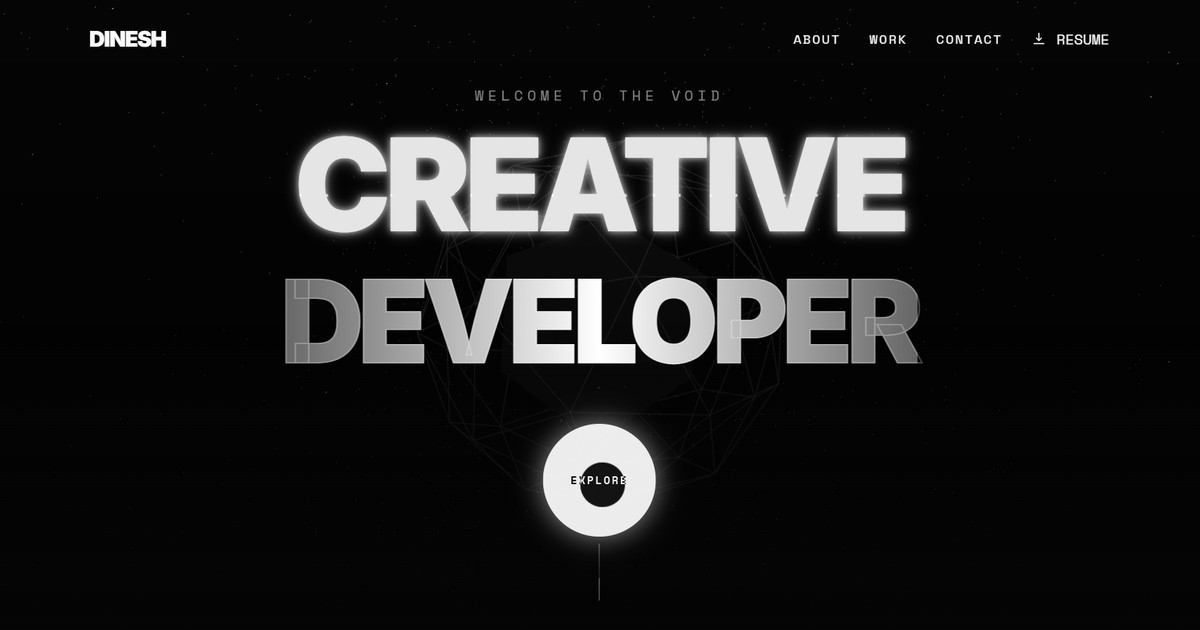
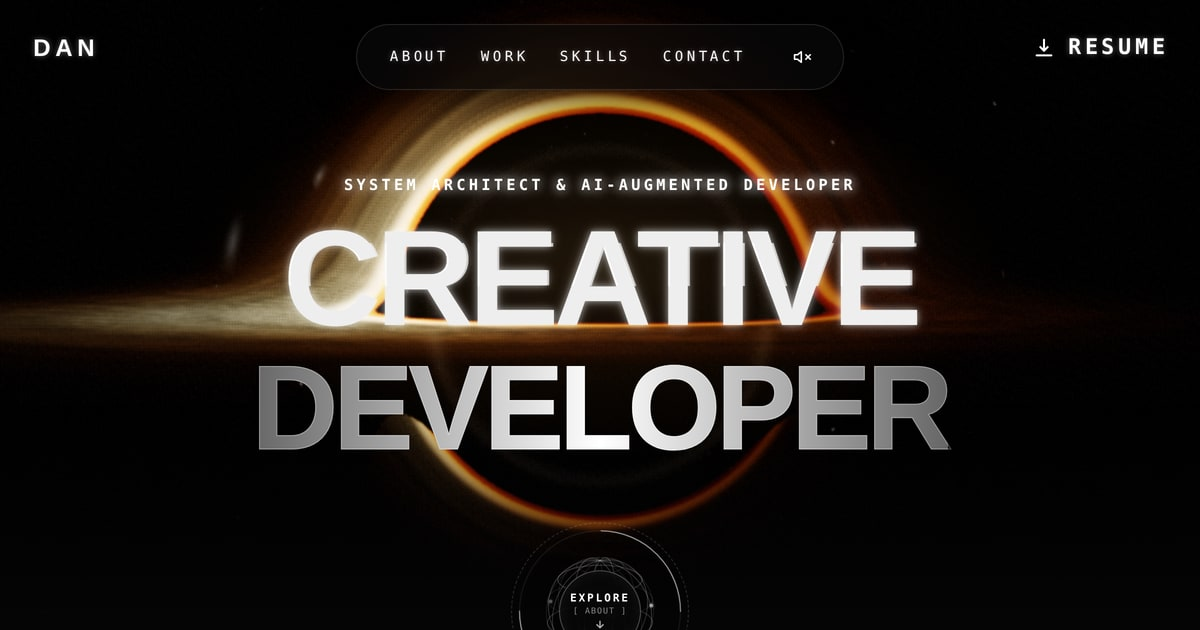
Replace Dinesh's name and photo with Dan's
Swap the template author's identity for the site owner's, limited to
name and imagery. Contact details are intentionally left untouched for
a follow-up pass.

- Photo: new portrait in src/assets/MYphoto.jpeg and the unused root
  copy, cropped square (715x715) to match the previous asset
- Display name: navbar logo, mobile brand link, footer copyright,
  About bio and the profile preview card now read "Dan"
- Metadata: title, description, keywords, og:site_name, og:title,
  og:image:alt and twitter:title in index.html
- Social preview: public/og-image.jpg regenerated from the current
  hero, since the old one was a screenshot showing "DINESH"
- Branding strings: contact-form beacon label and worker User-Agent
- Package name: dinesh-portfolio -> dan-portfolio
- Photo import renamed dineshPhoto -> danPhoto

Left as-is on purpose: email address, LinkedIn, WhatsApp and GitHub
links, Dinesh_Resume.pdf and the deployment URLs in canonical/og:url.

Claude-Session: https://claude.ai/code/session_01Uv8rVAj2wuqoYoFQCsW4Ho

diff --git a/index.html b/index.html
@@ -4,29 +4,29 @@
     <meta charset="UTF-8" />
     <link rel="icon" type="image/svg+xml" href="/favicon.svg" />
     <meta name="viewport" content="width=device-width, initial-scale=1.0" />
-    <title>Dinesh | Full Stack Developer & AIML Student</title>
+    <title>Dan | Full Stack Developer & AIML Student</title>
 
-    <meta name="description" content="Dinesh is a Full Stack Developer and AIML student who builds real-time web apps and AI-powered experiences. Exploring cloud technologies and continuous learning." />
-    <meta name="keywords" content="Dinesh, Full Stack Developer, AIML student, Artificial Intelligence, AI, ML, Web Development, React, Node.js, Full Stack, Cloud Technologies" />
+    <meta name="description" content="Dan is a Full Stack Developer and AIML student who builds real-time web apps and AI-powered experiences. Exploring cloud technologies and continuous learning." />
+    <meta name="keywords" content="Dan, Full Stack Developer, AIML student, Artificial Intelligence, AI, ML, Web Development, React, Node.js, Full Stack, Cloud Technologies" />
 
     <meta name="theme-color" content="#050505" />
     <meta name="color-scheme" content="dark" />
     <link rel="canonical" href="https://dinesh-portfolio.pages.dev/" />
 
     <!-- Open Graph -->
-    <meta property="og:site_name" content="Dinesh Portfolio" />
-    <meta property="og:title" content="Dinesh | Full Stack Developer & AIML Student" />
+    <meta property="og:site_name" content="Dan Portfolio" />
+    <meta property="og:title" content="Dan | Full Stack Developer & AIML Student" />
     <meta property="og:description" content="Real-time web apps and AI-powered experiences built with cloud technologies." />
     <meta property="og:type" content="website" />
     <meta property="og:url" content="https://dinesh-portfolio.pages.dev/" />
     <meta property="og:image" content="https://dinesh-portfolio.pages.dev/og-image.jpg" />
     <meta property="og:image:width" content="1200" />
     <meta property="og:image:height" content="630" />
-    <meta property="og:image:alt" content="Dinesh — Full Stack Developer & AIML Student Portfolio" />
+    <meta property="og:image:alt" content="Dan — Full Stack Developer & AIML Student Portfolio" />
 
     <!-- Twitter -->
     <meta name="twitter:card" content="summary_large_image" />
-    <meta name="twitter:title" content="Dinesh | Full Stack Developer & AIML Student" />
+    <meta name="twitter:title" content="Dan | Full Stack Developer & AIML Student" />
     <meta name="twitter:description" content="Real-time web apps and AI-powered experiences built with cloud technologies." />
     <meta name="twitter:image" content="https://dinesh-portfolio.pages.dev/og-image.jpg" />
     <meta name="twitter:creator" content="@DineshS36" />

diff --git a/src/components/About.jsx b/src/components/About.jsx
@@ -1,4 +1,4 @@
-import dineshPhoto from '../assets/MYphoto.jpeg';
+import danPhoto from '../assets/MYphoto.jpeg';
 import EngineeringTelemetry from './EngineeringTelemetry';
 import Timeline from './Timeline';
 import MaskedTitle from './MaskedTitle';
@@ -13,7 +13,7 @@ export default function About() {
             <MaskedTitle number="1." text="About Me" />
             <div className="divider" />
             <p className="text-gray about-text">
-              I’m Dinesh, an AI-Native Full Stack Developer and 4th-year AIML student specializing in architecture-driven, AI-augmented engineering. Rather than spending weeks writing boilerplate code by hand, I operate at the architectural level: designing decoupled system flows, data schemas, API contracts, and responsive UI layouts with HTML, CSS, and Tailwind. By directing generative AI as an engineering co-pilot, I synthesize, debug, and deploy production-ready cloud applications to Cloudflare Pages and Vercel at rapid sprint velocities.
+              I’m Dan, an AI-Native Full Stack Developer and 4th-year AIML student specializing in architecture-driven, AI-augmented engineering. Rather than spending weeks writing boilerplate code by hand, I operate at the architectural level: designing decoupled system flows, data schemas, API contracts, and responsive UI layouts with HTML, CSS, and Tailwind. By directing generative AI as an engineering co-pilot, I synthesize, debug, and deploy production-ready cloud applications to Cloudflare Pages and Vercel at rapid sprint velocities.
             </p>
             <div className="font-mono text-gray skill-list text-sm">
               <p><span style={{ color: '#fff' }}></span> System Architecture & Data Flows</p>
@@ -26,8 +26,8 @@ export default function About() {
           <div className="abstract-box hoverable gsap-reveal">
             <div className="about-photo-wrapper">
               <img
-                src={dineshPhoto}
-                alt="Dinesh - Full Stack Developer & AI Engineer"
+                src={danPhoto}
+                alt="Dan - Full Stack Developer & AI Engineer"
                 className="about-photo-img"
                 loading="eager"
               />

diff --git a/src/components/EngineeringTelemetry.jsx b/src/components/EngineeringTelemetry.jsx
@@ -1,5 +1,5 @@
 import { useAudio } from '../hooks/useAudio';
-import dineshPhoto from '../assets/MYphoto.jpeg';
+import danPhoto from '../assets/MYphoto.jpeg';
 
 export default function EngineeringTelemetry() {
   const { playHoverSound, playClickSound } = useAudio();
@@ -68,13 +68,13 @@ export default function EngineeringTelemetry() {
           {/* Clean LinkedIn Identity Preview */}
           <div className="linkedin-profile-preview">
             <img
-              src={dineshPhoto}
-              alt="Dinesh S"
+              src={danPhoto}
+              alt="Dan"
               className="linkedin-preview-avatar"
             />
             <div className="linkedin-preview-info">
               <div className="linkedin-preview-name">
-                <span>Dinesh S</span>
+                <span>Dan</span>
                 <span className="linkedin-check" title="Verified Profile">✓</span>
               </div>
               <div className="linkedin-preview-role text-gray">

diff --git a/src/worker.js b/src/worker.js
@@ -105,7 +105,7 @@ export default {
               <div class="field-label">Message Payload</div>
               <div class="message-box">${safeMessage}</div>
               <div class="footer">
-                Dispatched from Dinesh Portfolio Beacon • ${new Date().toUTCString()}
+                Dispatched from Dan Portfolio Beacon • ${new Date().toUTCString()}
               </div>
             </div>
           </body>
@@ -186,7 +186,7 @@ export default {
 
       try {
         const ghHeaders = {
-          'User-Agent': 'Dinesh-Portfolio-Cloudflare-Worker/1.0',
+          'User-Agent': 'Dan-Portfolio-Cloudflare-Worker/1.0',
           Accept: 'application/vnd.github.v3+json',
         };
 

diff --git a/src/components/Navbar.jsx b/src/components/Navbar.jsx
@@ -135,7 +135,7 @@ export default function Navbar({ isHeroPage }) {
           onClick={playClickSound}
           style={{ textDecoration: 'none', color: '#fff', fontSize: '1.5rem', fontWeight: 900, letterSpacing: '0.1em' }}
         >
-          <ConvexText text="DINESH" />
+          <ConvexText text="DAN" />
         </Link>
       </div>
 
@@ -185,7 +185,7 @@ export default function Navbar({ isHeroPage }) {
             className="mobile-brand-link font-mono uppercase text-glow"
             onClick={() => { playClickSound(); setMobileMenuOpen(false); }}
           >
-            Dinesh
+            Dan
           </Link>
 
           {/* Desktop Navigation Links */}

diff --git a/src/components/Footer.jsx b/src/components/Footer.jsx
@@ -19,7 +19,7 @@ export default function Footer() {
   return (
     <footer>
       <div className="container footer-inner font-mono text-gray">
-        <p>© 2026 BUILD WITH DINESH. All systems operational.</p>
+        <p>© 2026 BUILD WITH DAN. All systems operational.</p>
         <div className="social-links uppercase">
           <ScrambleLink href="https://github.com/DineshS36" className="hoverable" target="_blank" rel="noopener noreferrer">Github</ScrambleLink>
           <ScrambleLink href="https://www.linkedin.com/in/dinesh-s-173698390" className="hoverable" target="_blank" rel="noopener noreferrer">LinkedIn</ScrambleLink>

diff --git a/vite.config.js b/vite.config.js
@@ -103,7 +103,7 @@ function devEmailApiPlugin() {
                   <div class="field-label">Message Payload</div>
                   <div class="message-box">${safeMessage}</div>
                   <div class="footer">
-                    Dispatched from Dinesh Portfolio Beacon • ${new Date().toUTCString()}
+                    Dispatched from Dan Portfolio Beacon • ${new Date().toUTCString()}
                   </div>
                 </div>
               </body>

diff --git a/functions/api/send-email.js b/functions/api/send-email.js
@@ -98,7 +98,7 @@ export async function onRequestPost(context) {
           <div class="field-label">Message Payload</div>
           <div class="message-box">${safeMessage}</div>
           <div class="footer">
-            Dispatched from Dinesh Portfolio Beacon • ${new Date().toUTCString()}
+            Dispatched from Dan Portfolio Beacon • ${new Date().toUTCString()}
           </div>
         </div>
       </body>
